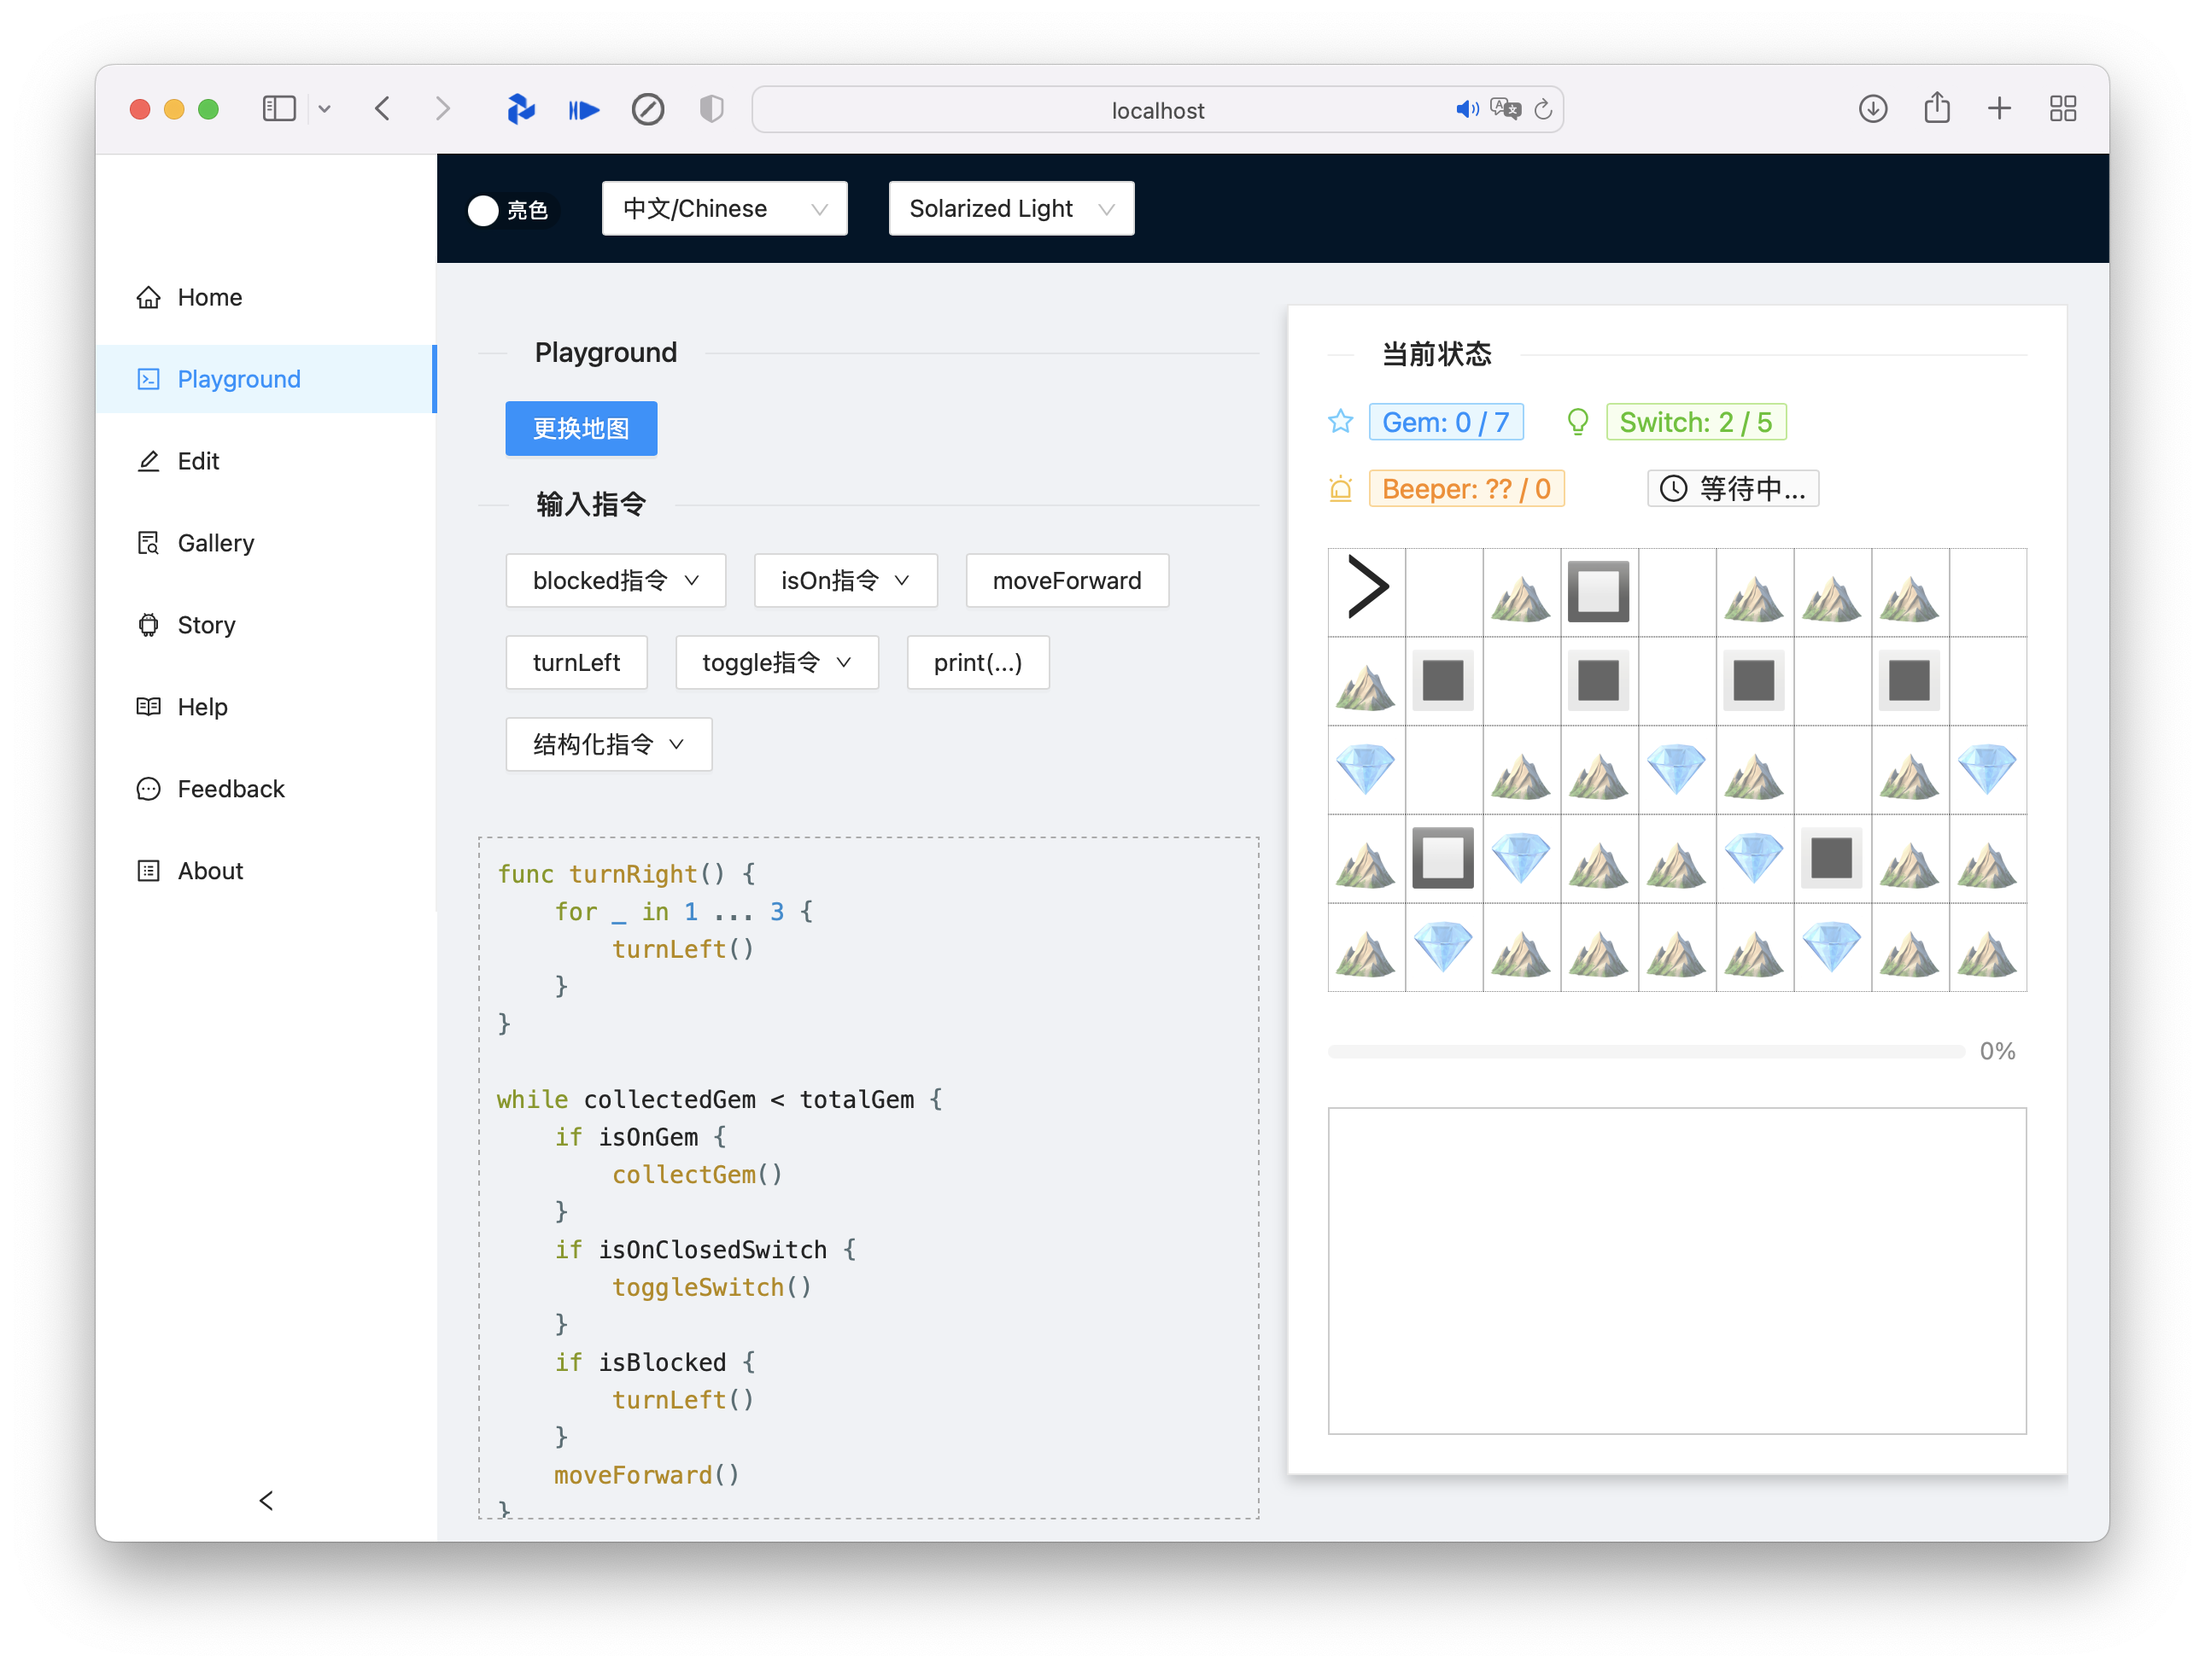
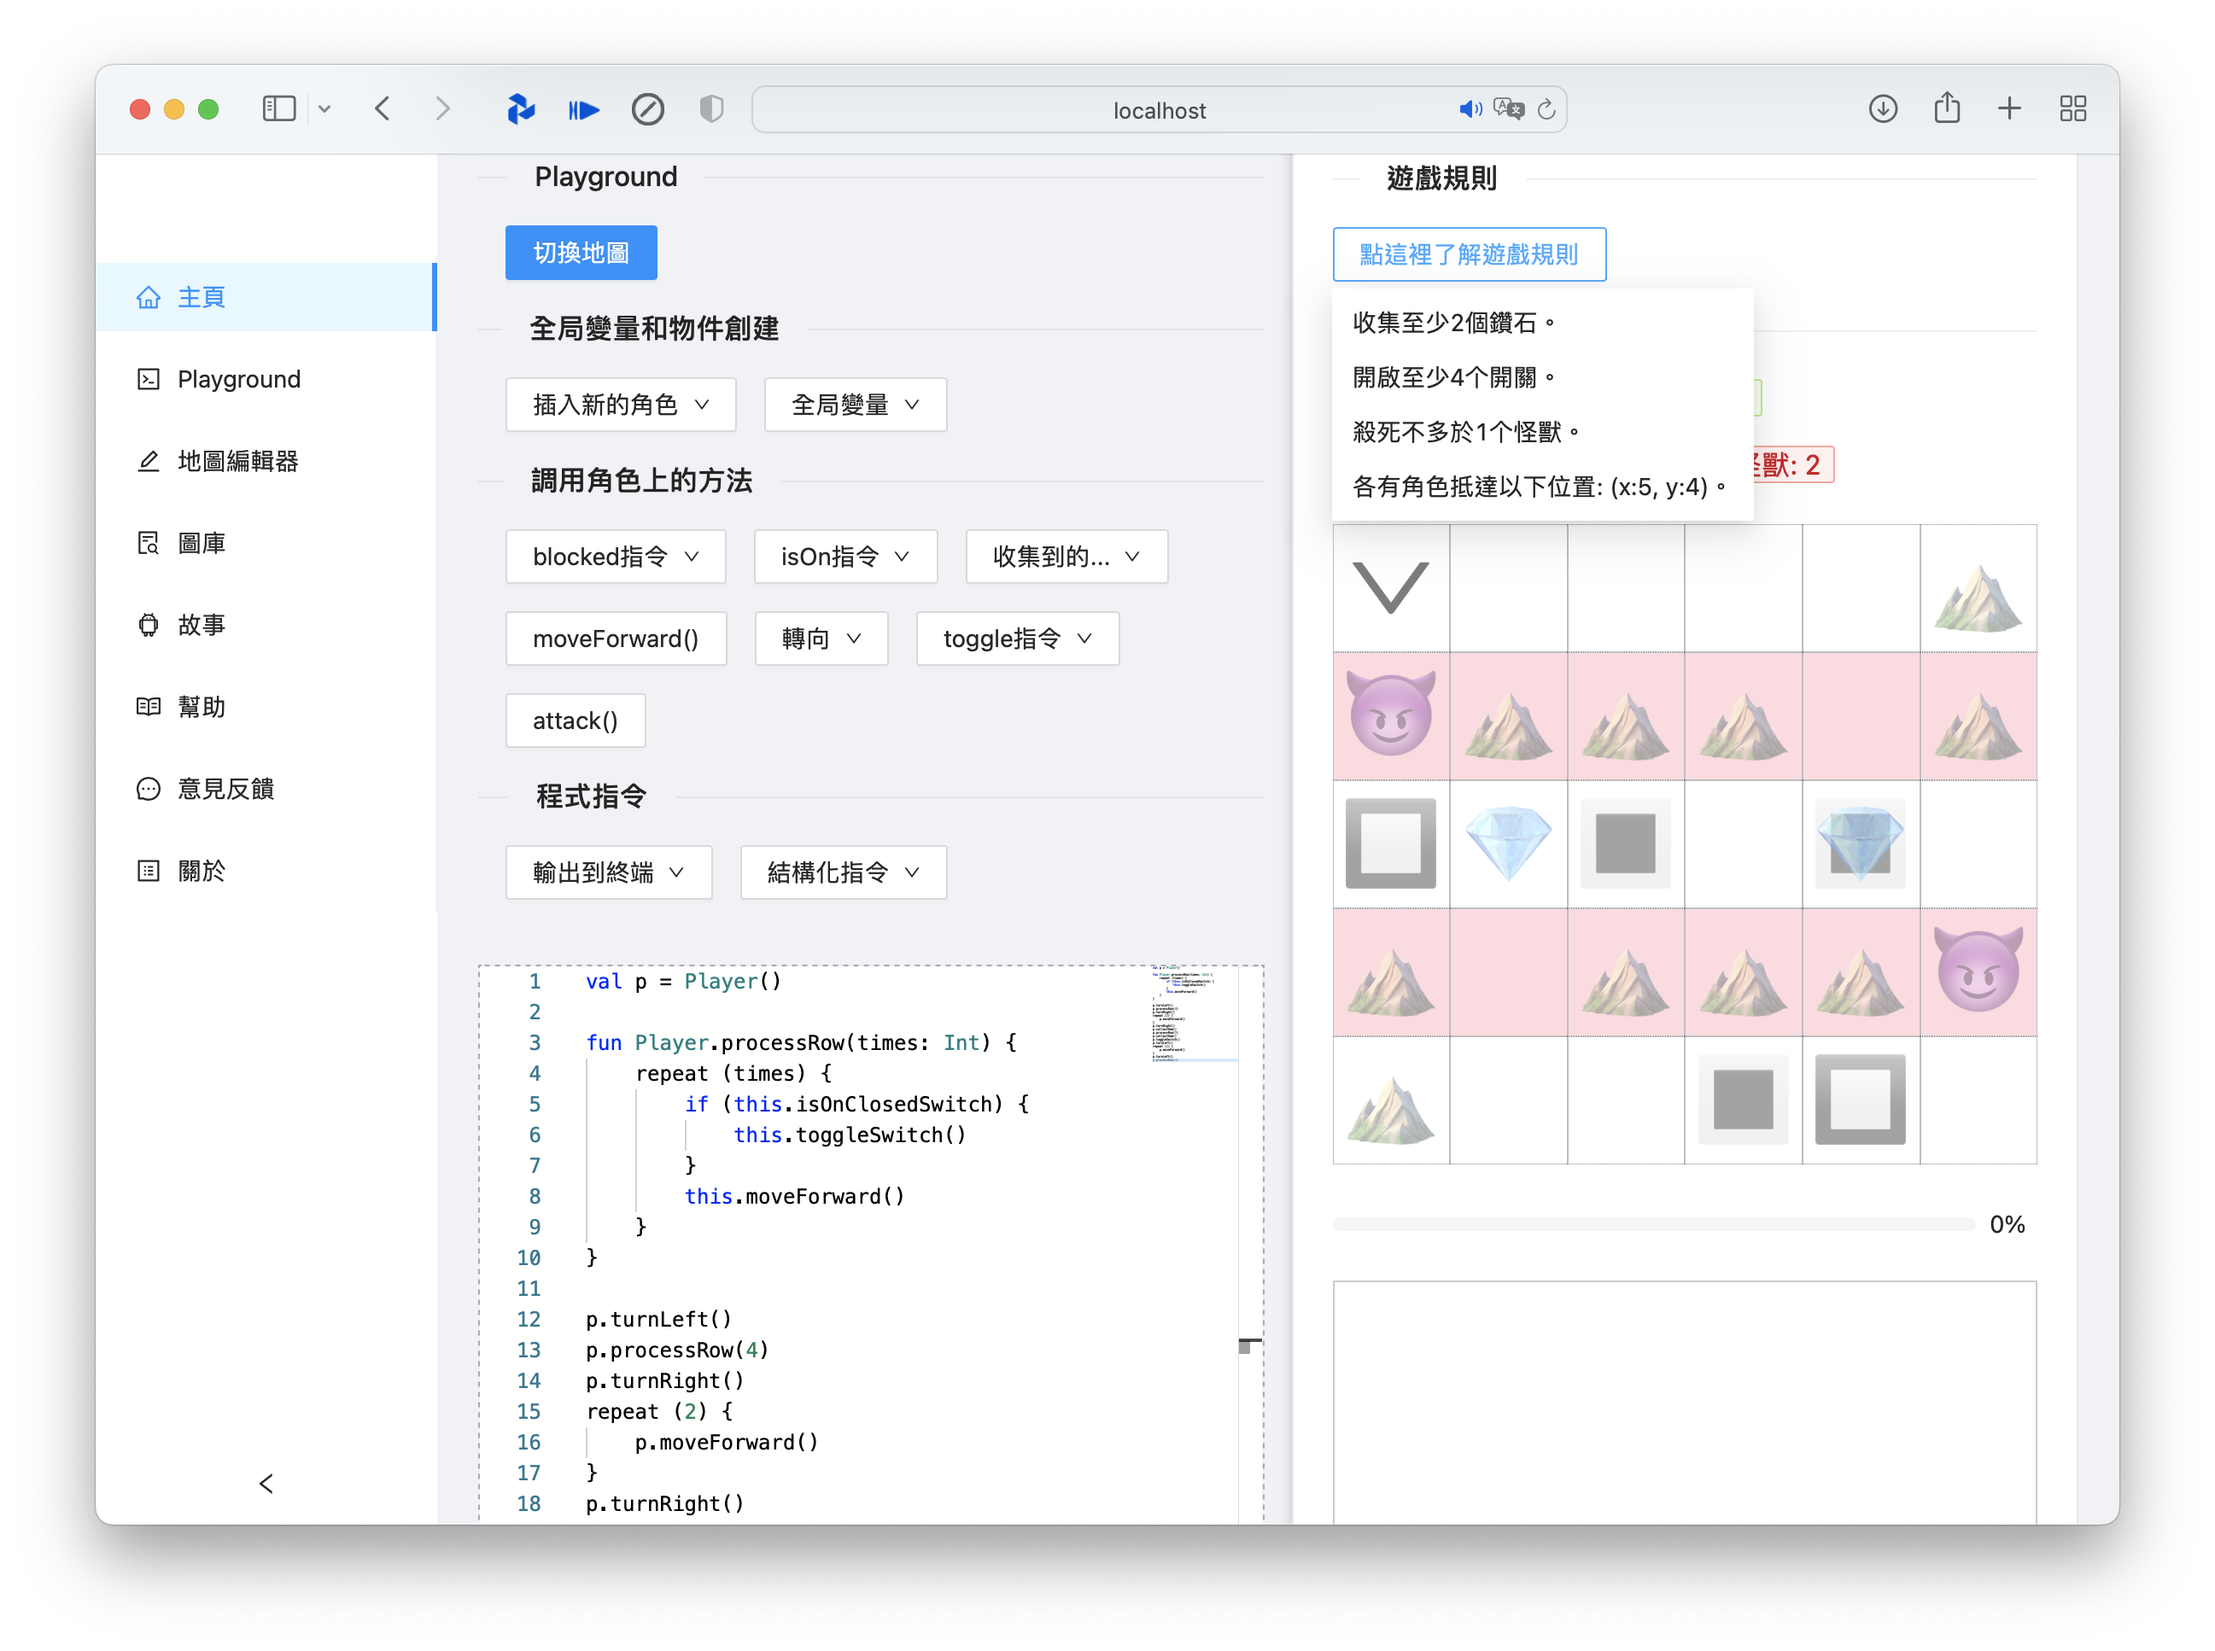
added zh-TW translation, minor fixes

diff --git a/src/locales/zh-TW/playground.ts b/src/locales/zh-TW/playground.ts
@@ -1,0 +1,61 @@
+export default {
+  'playground.defaultNotification.success.message': '任務執行成功',
+  'playground.defaultNotification.success.desc': '代碼正在運行中......',
+  'playground.defaultNotification.info.message': '提示',
+  'playground.defaultNotification.info.desc': '似乎發生了什麼?',
+  'playground.defaultNotification.warning.message': '警告',
+  'playground.defaultNotification.warning.desc': '有些不對勁',
+  'playground.defaultNotification.error.message': '錯誤',
+  'playground.defaultNotification.error.desc': '發生了一些錯誤',
+  'playground.notification.type.info': '消息',
+  'playground.notification.type.win': '你贏了',
+  'playground.notification.type.lost': '你失敗了',
+  'playground.notification.type.pending': '遊戲還沒結束',
+  'playground.notification.desc.gem': '撿到了一顆鑽石。',
+  'playground.notification.desc.switch': '按下了一個開關。',
+  'playground.notification.desc.beeper': '拾起一台蜂鳴器。',
+  'playground.notification.desc.attack': '擊敗了一隻怪獸。',
+  'playground.notification.desc.win': '恭喜通關。',
+  'playground.notification.desc.lost': '請再試一下吧。',
+  'playground.notification.desc.pending': '已滿足的勝利條件: {count}。',
+  'playground.notification.type.endGame': '任務已執行',
+  'playground.notification.desc.endGame': '程式執行完畢。',
+  'playground.input.loop': '{name}迴圈',
+  'playground.input.function': '函數',
+  'playground.input.changeMap': '切換地圖',
+  'playground.input.globalCode': '全局變量和物件創建',
+  'playground.input.instanceCode': '調用角色上的方法',
+  'playground.input.instructions': '程式指令',
+  'playground.input.inst': '{var}指令',
+  'playground.input.collected': '收集到的...',
+  'playground.input.turn': '轉向',
+  'playground.input.newChar': '插入新的角色',
+  'playground.input.player': '初始化普通角色',
+  'playground.input.specialist': '初始化專家角色',
+  'playground.input.playerNull': '初始化普通角色(可空)',
+  'playground.input.specialistNull': '初始化專家角色(可空)',
+  'playground.input.global': '全局變量',
+  'playground.input.print': '輸出到終端',
+  'playground.input.structInst': '結構化指令',
+  'playground.input.run': '▶運行',
+  'playground.input.reset': '重置',
+  'playground.gameCond.collectGems': '收集至少{num}個鑽石。',
+  'playground.gameCond.switchesBy': '開啟至少{num}个開關。',
+  'playground.gameCond.monstersKilled': '殺死至少{num}个怪獸。',
+  'playground.gameCond.monstersKilledLessThan': '殺死不多於{num}个怪獸。',
+  'playground.gameCond.arriveAt': '各有角色抵達以下位置: {coo}。',
+  'playground.gameCond.endGameAfter': '在第{num}個回合前結束遊戲。',
+  'playground.gameCond.noSameTileRepassed': '不能踏過重複的格子。',
+  'playground.gameCond.noEndGameCondition': '這款遊戲沒有設置結束條件。',
+  'playground.gameCond.gameRules': '遊戲規則',
+  'playground.gameCond.click': '點這裡了解遊戲規則',
+  'playground.status.currentStatus': '當前狀態',
+  'playground.status.success': '運行成功',
+  'playground.status.processing': '正在運行...',
+  'playground.status.idle': '等待中...',
+  'playground.status.impossible': '發生錯誤',
+  'playground.status.gem': '鑽石: {gemInBag} / {gemOnGround}',
+  'playground.status.switch': '開關: {openedSwitch} / {closedSwitch}',
+  'playground.status.beeper': '蜂鳴器: {beeperInBag} / {beeperAtGround}',
+  'playground.status.monster': '剩下的怪獸: {monsters}',
+};

diff --git a/src/playground.page/components/Input.tsx b/src/playground.page/components/Input.tsx
@@ -234,7 +234,7 @@ const InputBox: React.FC<InputBoxProps> = (props) => {
   ];
 
   return (
-    <div>
+    <>
       <Divider orientation="left">Playground</Divider>
       <MapSelector
         visible={isModalDisplayed}
@@ -267,7 +267,7 @@ const InputBox: React.FC<InputBoxProps> = (props) => {
           {
             // @ts-ignore
             <Dropdown
-              overlay={dropdown(initPlayers, monacoRef.current!)}
+              overlay={dropdown(allCounters, monacoRef.current!)}
               placement="bottomLeft"
               arrow
             >
@@ -414,34 +414,22 @@ const InputBox: React.FC<InputBoxProps> = (props) => {
       </div>
       <br />
       <div
+        id="editor"
         style={{
           width: '100%',
-          height: '400px',
-          overflow: 'scroll',
+          height: '50vh',
+          maxHeight: '50vh',
           border: '1px dashed #aaa',
         }}
       >
-        {/*<Editor*/}
-        {/*  value={props.store}*/}
-        {/*  onValueChange={code => handleChange(code)}*/}
-        {/*  textareaClassName='editor_textarea'*/}
-        {/*  preClassName='editor_pre'*/}
-        {/*  textareaId='amatsukaze-code-editor'*/}
-        {/*  padding={10}*/}
-        {/*  highlight={code => Prism.highlight(code, Prism.languages.swift, 'swift')}*/}
-        {/*  style={{*/}
-        {/*    'fontFamily': 'Fira Code, Iosevka, source-code-pro, Menlo, Monaco, Consolas, Droid Sans, monospace, sans-serif',*/}
-        {/*    fontVariantLigatures: 'normal',*/}
-        {/*    'resize': 'none',*/}
-        {/*  }}*/}
-        {/*/>*/}
         <Editor
-          height="50vh"
+          height="100%"
           language="kotlin"
           theme={props.theme.toString()}
           value={props.store}
           onChange={props.onEditorChange}
           onMount={onEditorMount}
+          className="monaco.editor"
         />
       </div>
       <br />
@@ -489,7 +477,7 @@ const InputBox: React.FC<InputBoxProps> = (props) => {
         </Col>
         <Col span={12}></Col>
       </Row>
-    </div>
+    </>
   );
 };
 

diff --git a/src/pages/Playground.tsx b/src/pages/Playground.tsx
@@ -146,6 +146,9 @@ const Playground: React.FC<PlaygroundProps> = (props) => {
   }, [props.initialized, props.nextFrame, props.answer, idle, disabled]); // 如果想要让setInterval和呼叫的函数里对应的变量发生改变，就要在数组里声明
   // setInterval相当于一个闭包，里面的变量如果不额外声明的话值是固定的
 
+  // Align bottom of editor and board
+  useEffect(() => {});
+
   const initialFetch = () => {
     props.dispatch({
       type: `${namespace}/initialFetch`,
@@ -312,6 +315,7 @@ const Playground: React.FC<PlaygroundProps> = (props) => {
         </Col>
         <Col className="gutter-row" xs={24} sm={24} md={12} lg={12} xl={12}>
           <div
+            id="board"
             style={{
               background: 'white',
               overflow: 'scroll',

diff --git a/src/pages/Help.tsx b/src/pages/Help.tsx
@@ -1,5 +1,6 @@
 import React from 'react';
 import { Card, Col, Divider, Row, Tabs } from 'antd';
+import { useIntl } from '@@/plugin-locale/localeExports';
 
 const { TabPane } = Tabs;
 
@@ -405,7 +406,7 @@ const UpdateLogs = () => {
   );
 };
 
-export default () => {
+const _ = () => {
   return (
     <Row>
       <Col xs={24} sm={22} md={20} lg={18} xl={16}>
@@ -431,5 +432,20 @@ export default () => {
         </Card>
       </Col>
     </Row>
+  );
+};
+
+export default () => {
+  return (
+    <div
+      style={{
+        minHeight: '600px',
+      }}
+    >
+      <Divider orientation="left">
+        {useIntl().formatMessage({ id: 'section.Help' })}
+      </Divider>
+      <div>{useIntl().formatMessage({ id: 'underConstruct' })}</div>
+    </div>
   );
 };

diff --git a/src/SimpleLayout.tsx b/src/SimpleLayout.tsx
@@ -121,9 +121,10 @@ const SimpleLayout: React.FC<SimpleLayoutProps> = (props) => {
             <Select
               onSelect={(value: string) => setLocale(value, false)}
               defaultValue="zh-CN"
-              style={{ width: 144 }}
+              style={{ width: 192 }}
             >
-              <Option value="zh-CN">中文/Chinese</Option>
+              <Option value="zh-CN">简体中文/Simp. Chinese</Option>
+              <Option value="zh-TW">正體中文/Trad. Chinese</Option>
               <Option value="en-US">英文/English</Option>
               <Option value="fr-FR">法语/Français</Option>
             </Select>

diff --git a/src/locales/zh-TW/sections.ts b/src/locales/zh-TW/sections.ts
@@ -1,0 +1,10 @@
+export default {
+  'section.About': '關於',
+  'section.Editor': '地圖編輯器',
+  'section.Feedback': '意見反饋',
+  'section.Gallery': '圖庫',
+  'section.Help': '幫助',
+  'section.Home': '主頁',
+  'section.Playground': 'Playground',
+  'section.Story': '故事',
+};

diff --git a/src/locales/zh-TW.ts b/src/locales/zh-TW.ts
@@ -1,0 +1,11 @@
+import sections from './zh-TW/sections';
+import playground from './zh-TW/playground';
+
+export default {
+  welcome: '歡迎',
+  underConstruct: '工程進行中，請稍後訪問。。。',
+  dark: '暗色',
+  light: '亮色',
+  ...sections,
+  ...playground,
+};
